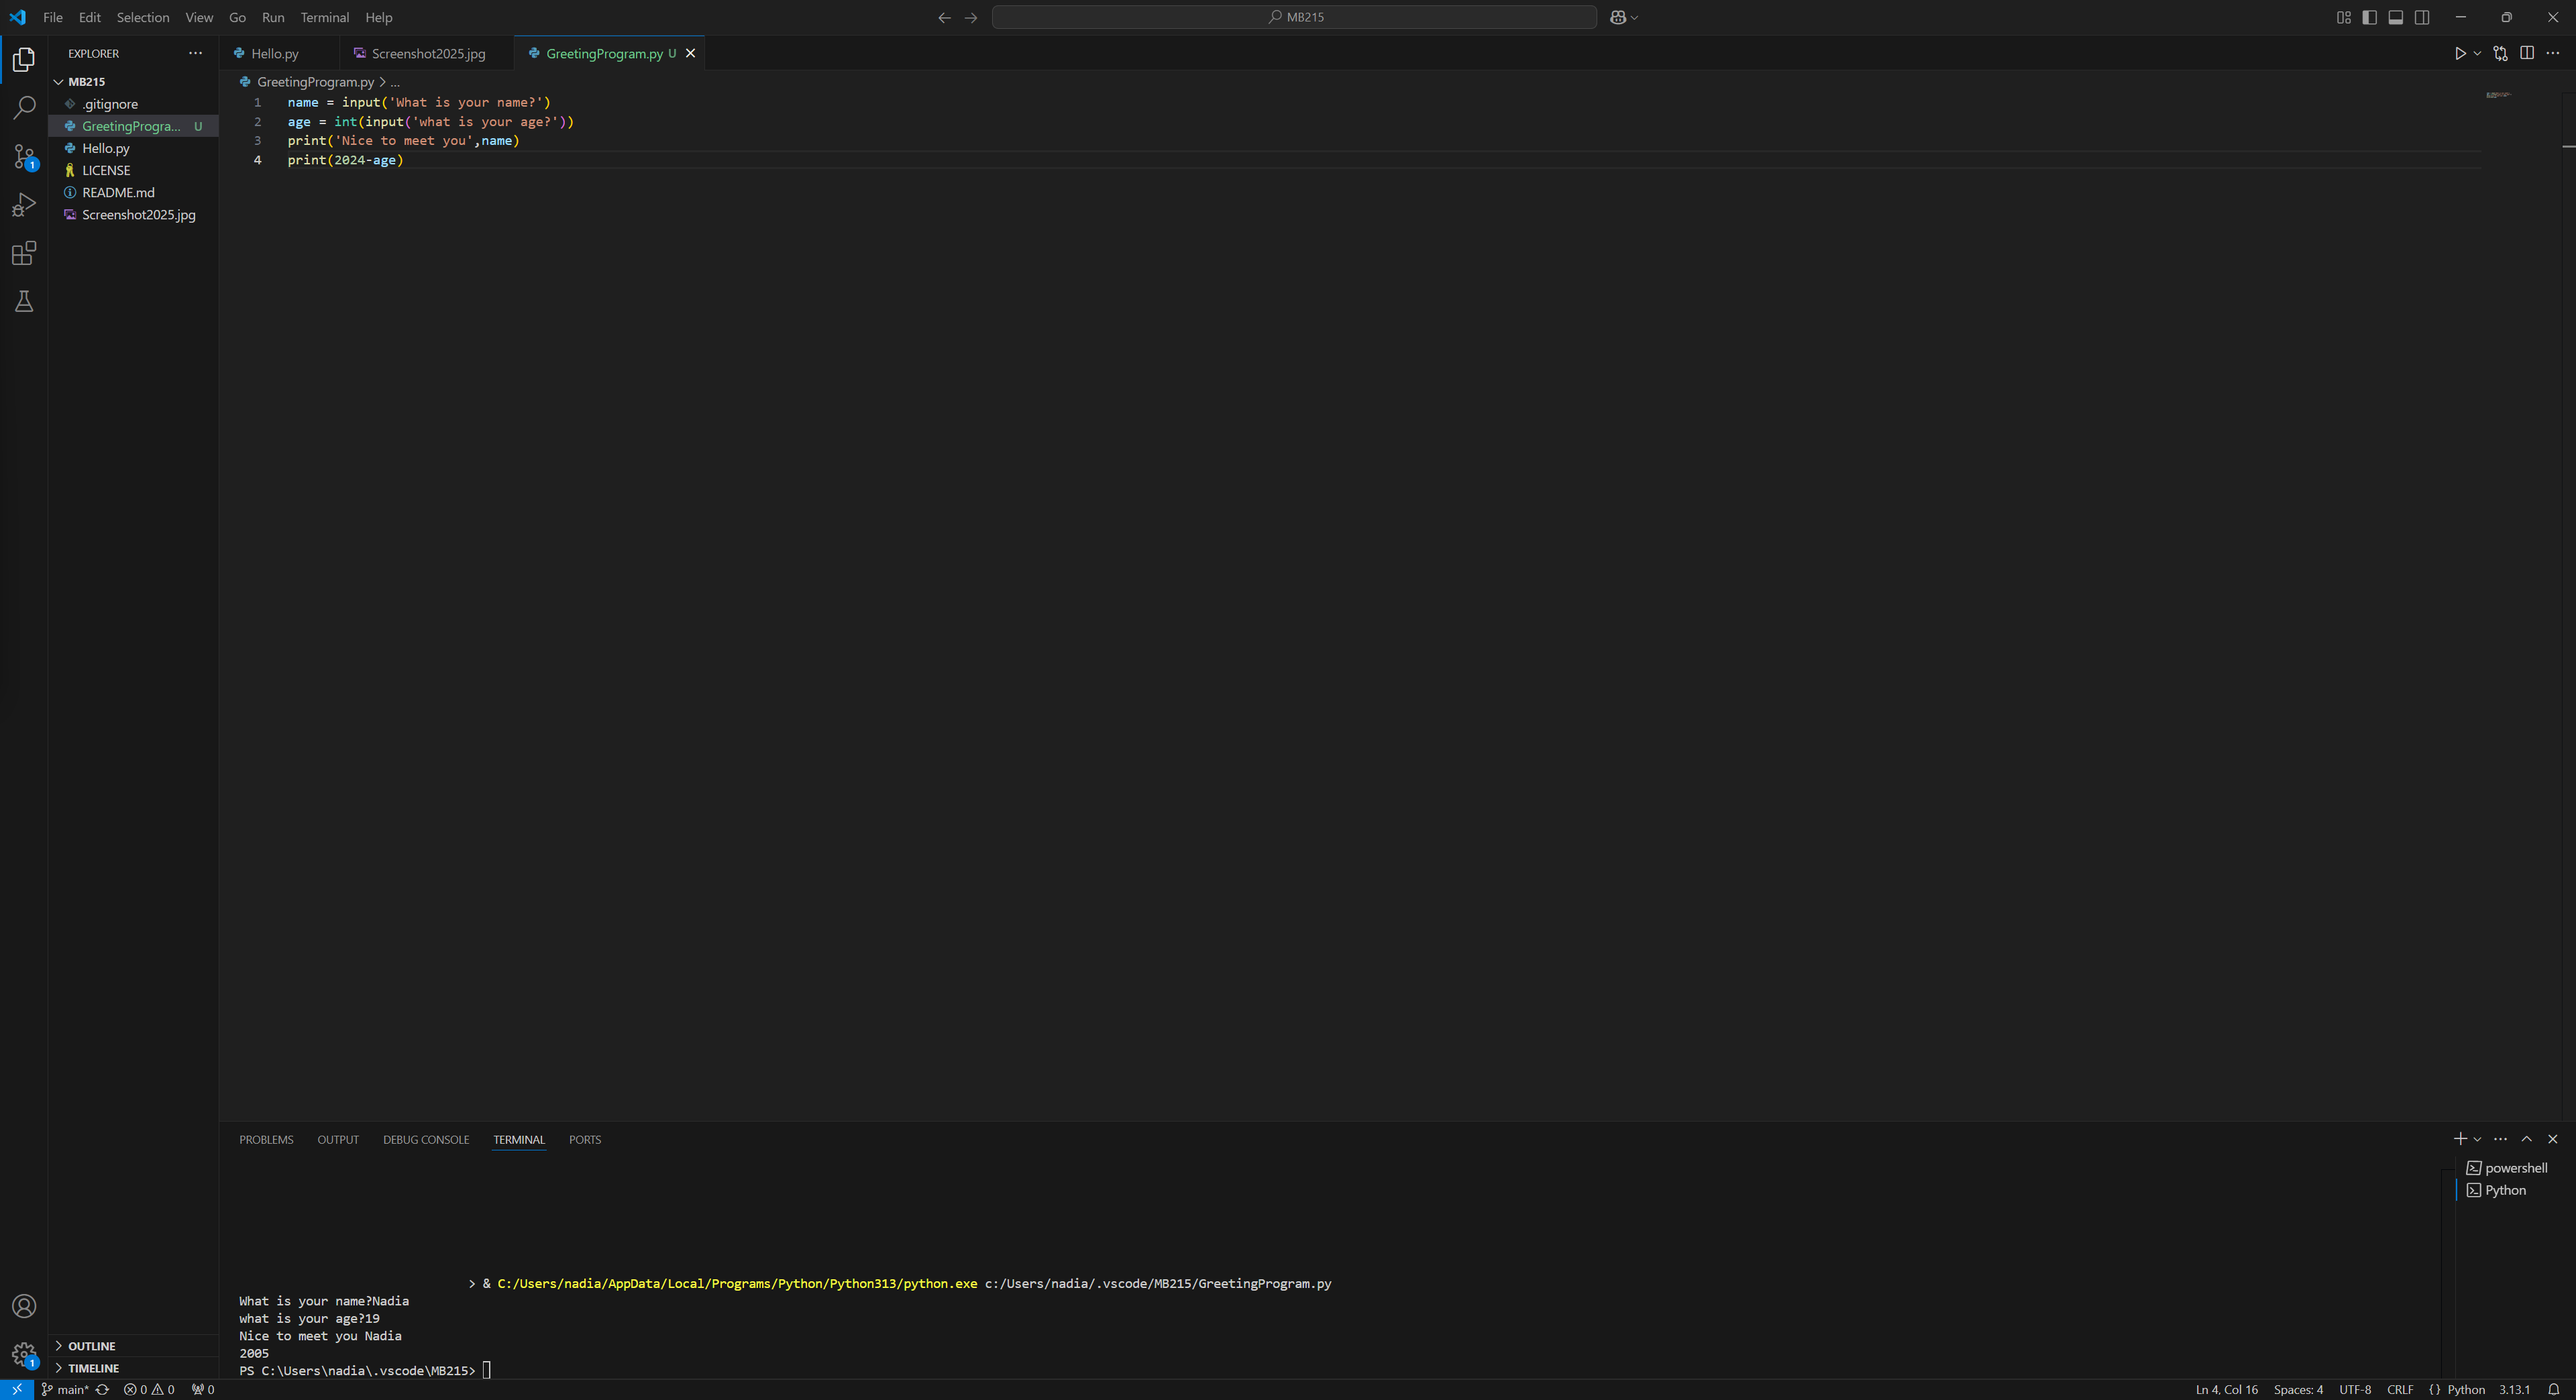
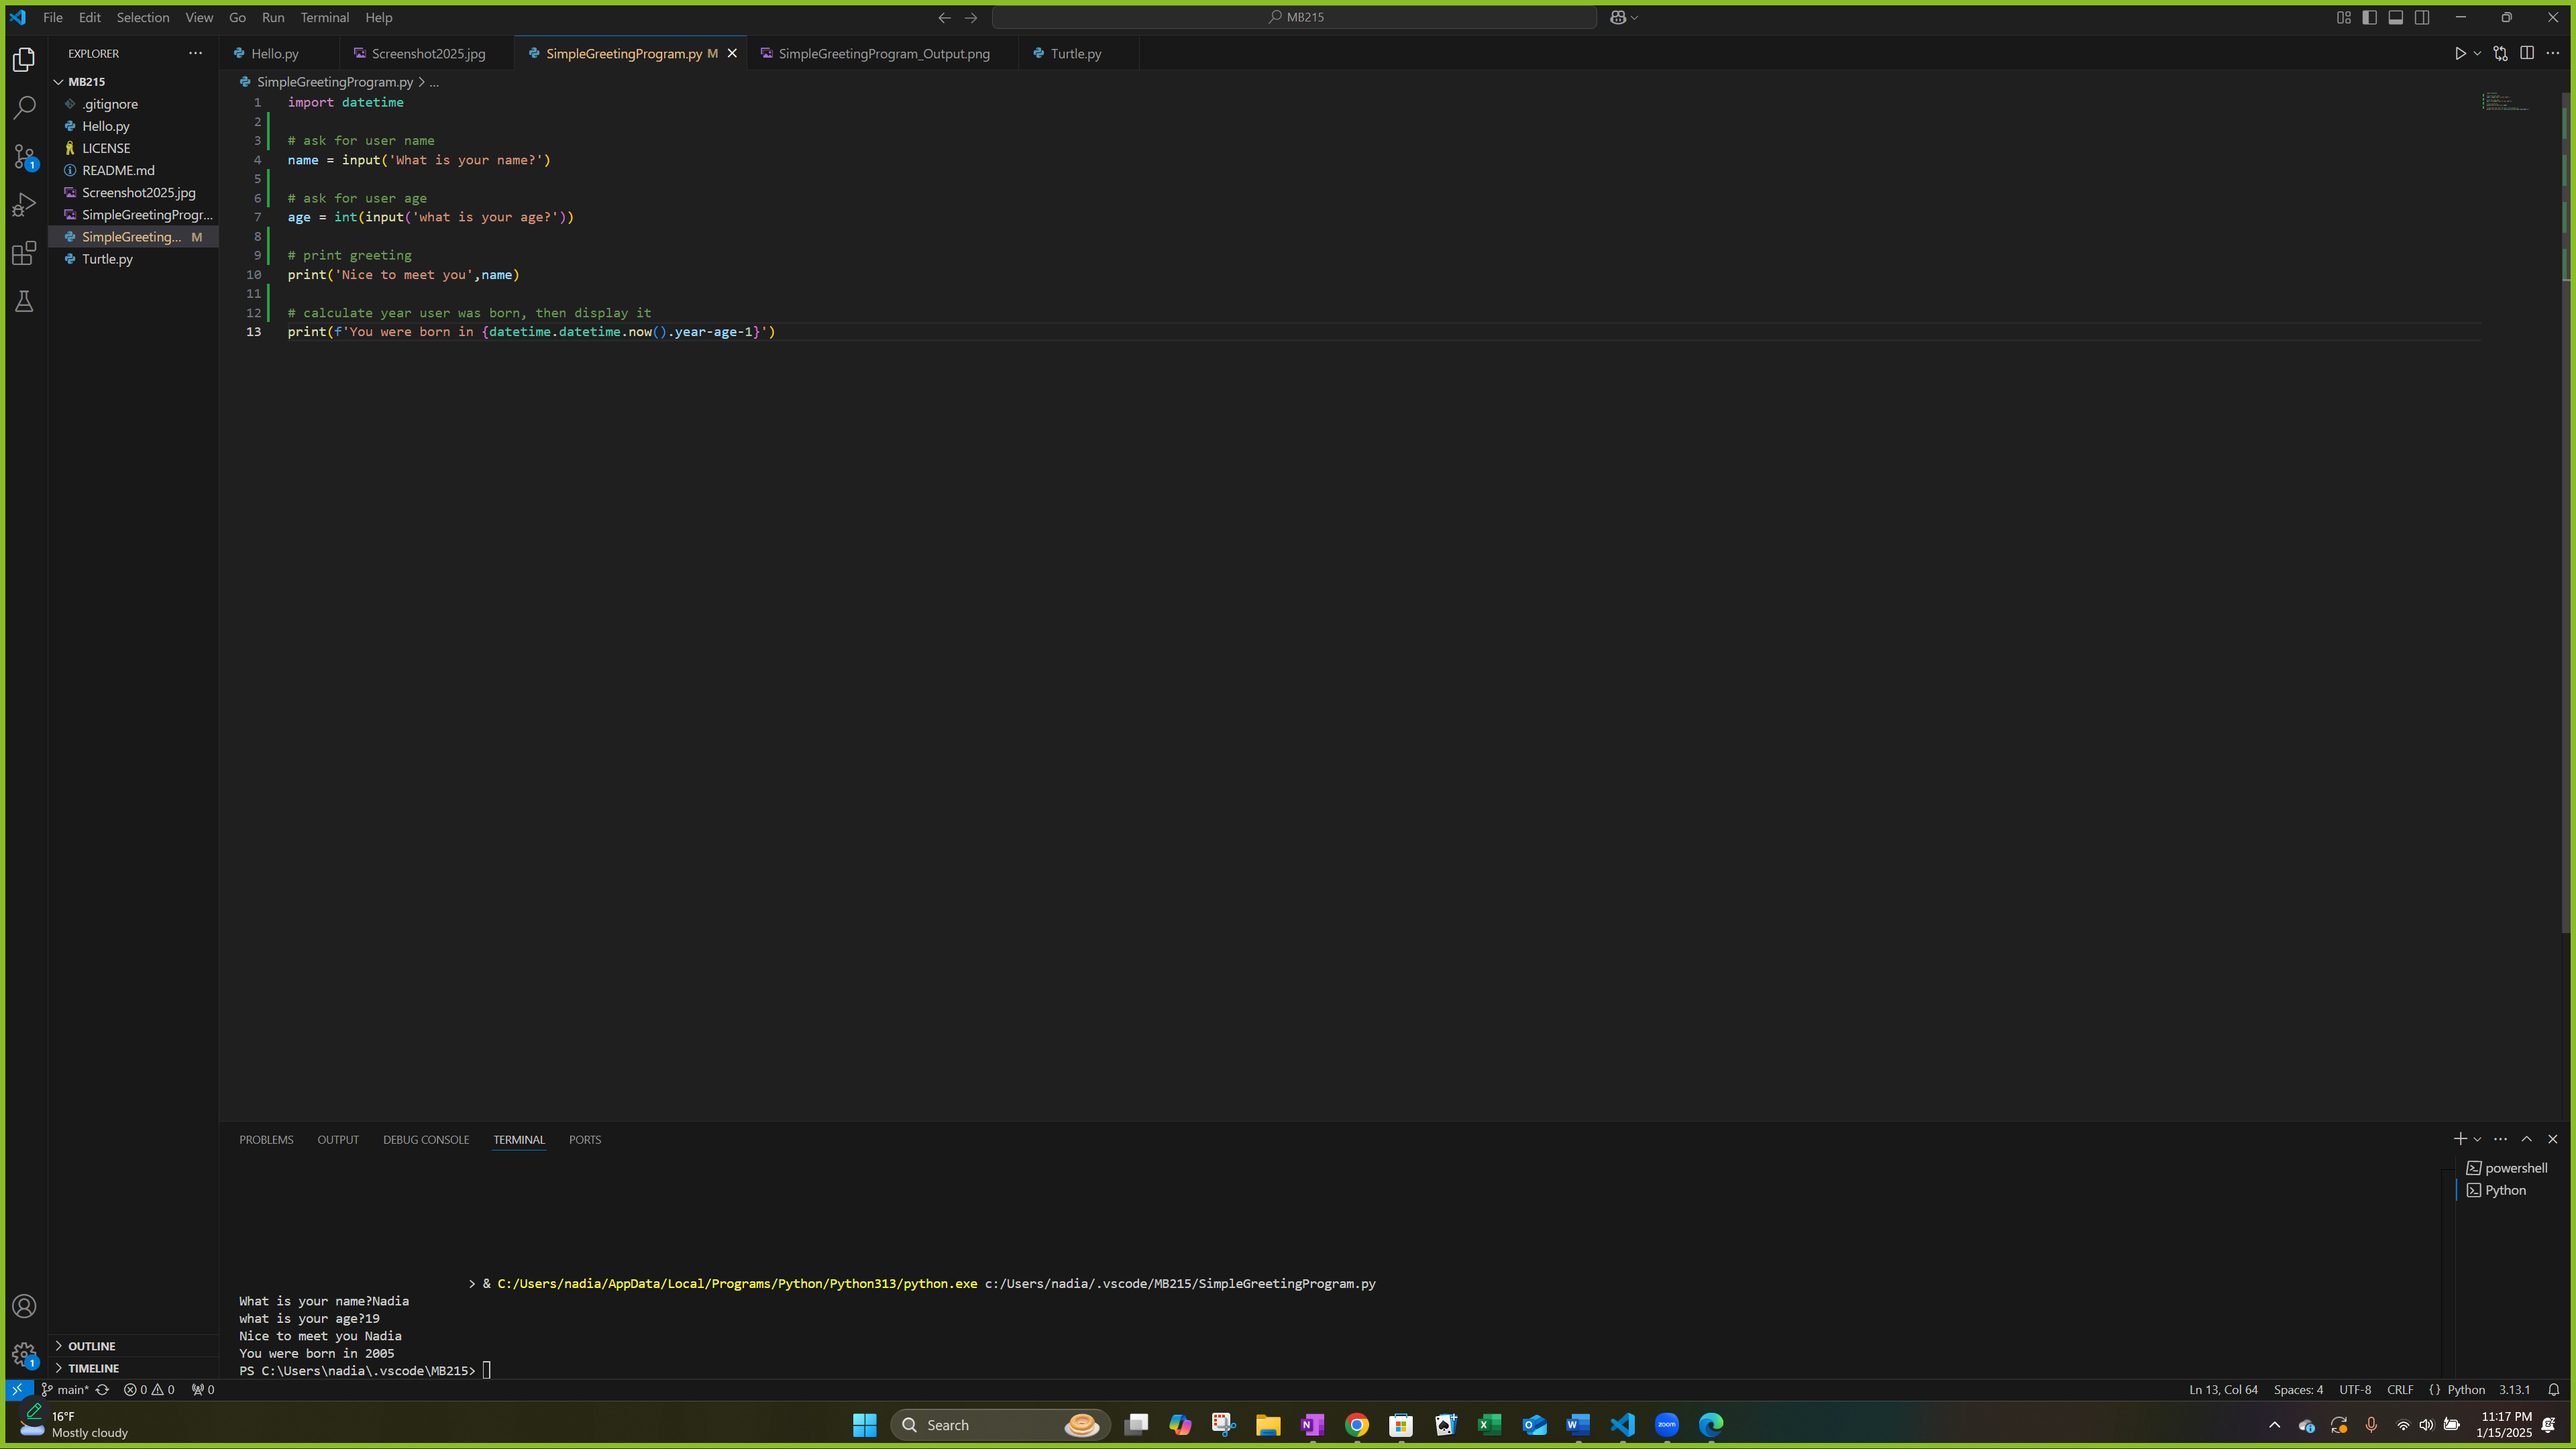
changing SimpleGreetingProgram

diff --git a/SimpleGreetingProgram.py b/SimpleGreetingProgram.py
@@ -1,5 +1,13 @@
 import datetime
+
+# ask for user name
 name = input('What is your name?')
+
+# ask for user age
 age = int(input('what is your age?'))
+
+# print greeting
 print('Nice to meet you',name)
+
+# calculate year user was born, then display it
 print(f'You were born in {datetime.datetime.now().year-age-1}')
